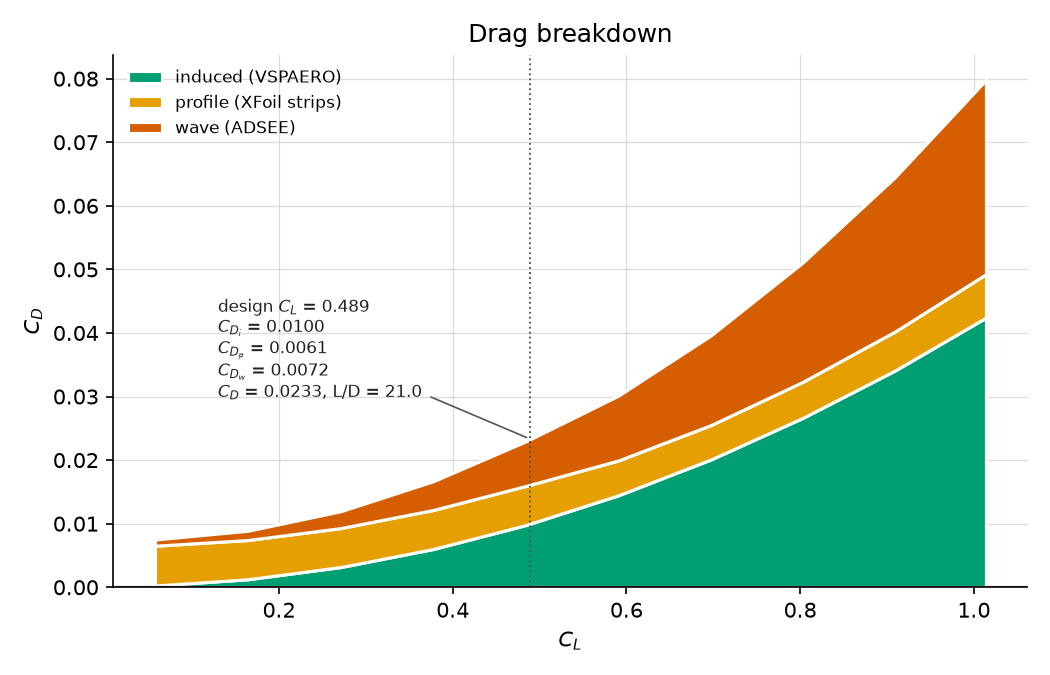
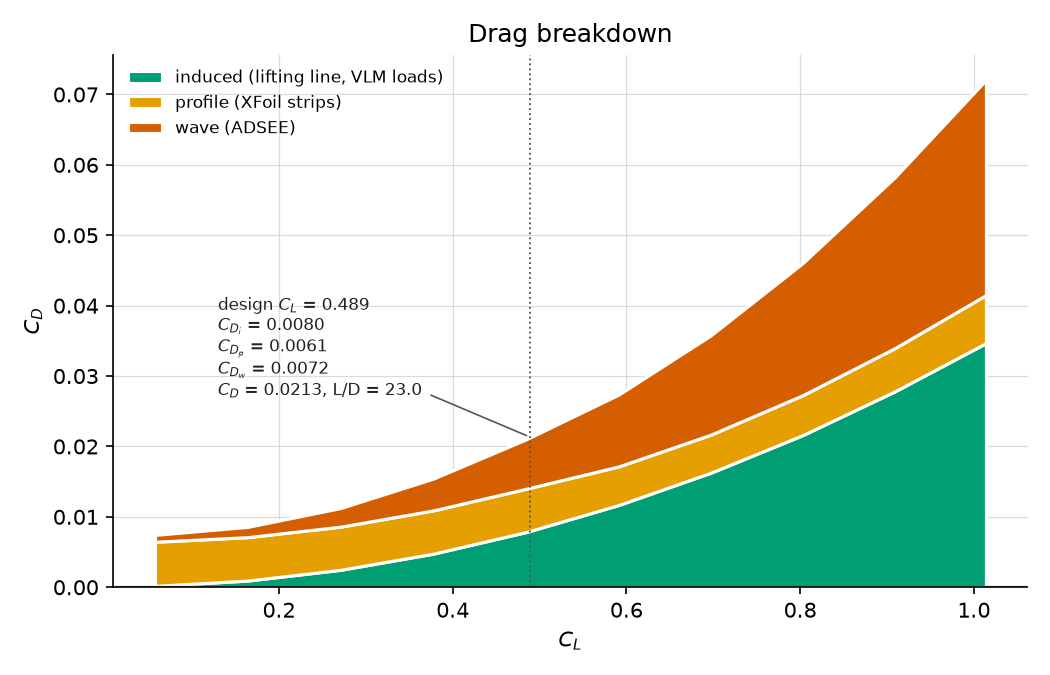
Oswald coefficient correction (far-field induced veocity)

diff --git a/wp2/src/b12wp2/wing/vspaero.py b/wp2/src/b12wp2/wing/vspaero.py
@@ -4,12 +4,18 @@
 """3D wing analysis at cruise: VSPAERO (VLM) + XFoil profile drag + ADSEE
 wave drag, for the wing of b12wp2.wing.geometry with NACA 25112 sections.
 
-    CD = CDi (VSPAERO, Trefftz plane) + CD_profile (XFoil strips) + CD_wave (ADSEE)
+    CD = CDi (lifting line on the VLM span loading) + CD_profile (XFoil strips) + CD_wave (ADSEE)
 
 - VSPAERO: inviscid VLM angle-of-attack sweep at the cruise condition of
-  config.CRUISE. Kept: CL, CMy and the wake (Trefftz-plane) induced drag
-  CDiw. Discarded: VSPAERO's own CDo (a flat-plate skin-friction estimate)
-  and its surface-integrated CDi (goes negative near CL = 0).
+  config.CRUISE. Kept: CL, CMy and the spanwise strip loads. Discarded:
+  VSPAERO's own CDo (a flat-plate skin-friction estimate) and both of its
+  induced drags. The surface-integrated CDi goes negative near CL = 0; the
+  wake (Trefftz-plane) CDiw depends on sweep rather than on the loading --
+  for this planform its span efficiency is 1.17 unswept and 0.80 at the
+  design sweep, while the span loading itself is near-elliptic (0.99-1.00)
+  in both cases. CDiw is kept in the polar as CDiw_vsp, for comparison only.
+- Induced drag: Prandtl's lifting-line Fourier analysis of the VSPAERO
+  span loading cl c(y), see b12wp2.common.drag_polar.induced_drag_from_loading.
 - Profile drag: the spanwise strip loads of every angle of attack are run
   through the XFoil cruise polar, see b12wp2.wing.viscous_correction.
 - Wave drag: XFoil models no shocks, so wave drag is added from the swept
@@ -162,7 +168,7 @@ def read_vsp_polar() -> pd.DataFrame:
         {
             "alpha": col("Alpha"),
             "CL": col("CLtot"),
-            "CDi": col("CDiw"),  # wake / Trefftz-plane induced drag
+            "CDiw_vsp": col("CDiw"),  # wake / Trefftz-plane induced drag, comparison only
             "CMy": col("CMytot"),
             "CDo_vsp": col("CDo"),
             "CDtot_vsp": col("CDtot"),
@@ -196,7 +202,7 @@ def read_strips() -> pd.DataFrame:
 def build_polar(
     vsp_polar: pd.DataFrame, strips: pd.DataFrame, section: pd.DataFrame
 ) -> tuple[pd.DataFrame, pd.DataFrame]:
-    """Add profile and wave drag to the VSPAERO polar.
+    """Add induced (lifting line), profile and wave drag to the VSPAERO polar.
 
     Returns (polar, strips) with the strip-level cl_n, cd_n, cd, status added.
     """
@@ -204,6 +210,9 @@ def build_polar(
     rows, strip_frames = [], []
     for _, p in vsp_polar.iterrows():
         s = strips[np.isclose(strips["alpha"], p["alpha"])]
+        ll = dp.induced_drag_from_loading(
+            s["y"], s["cl"] * s["chord"], wg.B, wing_cfg.AR, solvers.LIFTING_LINE_N_TERMS
+        )
         s_out, cd_prof = vc.strip_profile_drag(
             s, section, sweep_rad=config.SWEEP_RAD, chord_ref=config.CHORD_M,
             s_ref=wing_cfg.S_REF, mode=SWEEP_DRAG_MODE,
@@ -214,17 +223,20 @@ def build_polar(
         )
         m_dd = vc.korn_swept(KAPPA_A, T_C, float(p["CL"]), SWEEP_KORN)
         cd_wave = vc.wave_drag(MACH, m_dd)
-        cd = p["CDi"] + cd_prof + cd_wave
+        cd = ll.cdi + cd_prof + cd_wave
         ratio = s_out["cl_n"] / cl_max_n
         rows.append(
             {
                 **p.to_dict(),
+                "CDi": ll.cdi,
+                "span_eff": ll.span_efficiency,
+                "CL_strips": ll.cl,
                 "CD_profile": cd_prof,
                 f"CD_profile_{SWEEP_DRAG_MODE_SENSITIVITY}": cd_prof_sens,
                 "M_dd": m_dd,
                 "CD_wave": cd_wave,
                 "CD": cd,
-                f"CD_{SWEEP_DRAG_MODE_SENSITIVITY}": p["CDi"] + cd_prof_sens + cd_wave,
+                f"CD_{SWEEP_DRAG_MODE_SENSITIVITY}": ll.cdi + cd_prof_sens + cd_wave,
                 "L_D": p["CL"] / cd,
                 "L_D_no_wave": p["CL"] / (cd - cd_wave),
                 "n_stalled": int((s_out["status"] == vc.STALLED).sum()),
@@ -282,10 +294,15 @@ def summarise(polar: pd.DataFrame) -> dict[str, float]:
         "t_c": T_C,
         "kappa_a": KAPPA_A,
         "sweep_korn_deg": math.degrees(SWEEP_KORN),
-        # ADSEE-II Oswald factor of the clean wing; compared with the
-        # wing-only span efficiency CL^2 / (pi AR CDi) of the VLM
+        # ADSEE-II Oswald factor (whole aircraft) vs the wing-only span
+        # efficiency CL^2 / (pi AR CDi): from the lifting-line fit used in CD,
+        # and from VSPAERO's Trefftz-plane CDiw for comparison
         "sweep_half_chord_deg": math.degrees(SWEEP_HALF_CHORD),
         "oswald_e_adsee": OSWALD_E,
         "K_adsee": dp.induced_drag_factor(OSWALD_E, wing_cfg.AR),
-        "span_efficiency_vsp_design": CL_DESIGN**2 / (math.pi * wing_cfg.AR * _at_cl(polar, "CDi", CL_DESIGN)),
+        "span_efficiency_design": _at_cl(polar, "span_eff", CL_DESIGN),
+        "CDi_trefftz_vsp_design": _at_cl(polar, "CDiw_vsp", CL_DESIGN),
+        "span_efficiency_trefftz_vsp_design": (
+            CL_DESIGN**2 / (math.pi * wing_cfg.AR * _at_cl(polar, "CDiw_vsp", CL_DESIGN))
+        ),
     }

diff --git a/wp2/src/b12wp2/common/drag_polar.py b/wp2/src/b12wp2/common/drag_polar.py
@@ -5,7 +5,8 @@
 Oswald factor, the quadratic coefficient K and the winglet effect on the
 aspect ratio, as given on the ADSEE-II formula sheet (AE2111-II, Formula
 Sheet - Aircraft, "Oswald factor, quadratic coefficient and effect of
-winglet").
+winglet"); and the induced drag of a given spanwise loading from Prandtl's
+lifting-line theory.
 
 Pure functions, no OpenVSP/XFoil dependency -- tested in
 test_drag_polar.py against structural properties of the formulas.
@@ -13,6 +14,10 @@ test_drag_polar.py against structural properties of the formulas.
 from __future__ import annotations
 
 import math
+from typing import NamedTuple
+
+import numpy as np
+import numpy.typing as npt
 
 
 def oswald_factor(aspect_ratio: float, sweep_half_chord: float) -> float:
@@ -49,3 +54,53 @@ def winglet_aspect_ratio(aspect_ratio: float, winglet_height: float, span: float
     if span <= 0.0:
         raise ValueError(f"winglet_aspect_ratio: span must be > 0, got {span}")
     return aspect_ratio * (1.0 + 1.9 * winglet_height / span)
+
+
+class LiftingLine(NamedTuple):
+    """Lifting-line coefficients of a spanwise loading."""
+
+    cl: float  # wing lift coefficient, pi AR A_1
+    cdi: float  # induced drag coefficient, pi AR sum(n A_n^2)
+    span_efficiency: float  # CL^2 / (pi AR CDi) = 1 / (1 + sum_{n>1} n (A_n/A_1)^2)
+
+
+def induced_drag_from_loading(
+    y: npt.ArrayLike,
+    cl_c: npt.ArrayLike,
+    span: float,
+    aspect_ratio: float,
+    n_terms: int = 7,
+) -> LiftingLine:
+    """Induced drag of a symmetric spanwise loading by Prandtl's lifting-line
+    theory (e.g. Anderson, Fundamentals of Aerodynamics, sec. 5.3).
+
+    `y` are the spanwise stations of one half-wing (0 < y <= b/2) and `cl_c`
+    the local section lift times chord there, cl c = 2 Gamma / V. With
+    y = (b/2) cos(theta) the loading is fitted, in a least-squares sense, by
+    the odd terms of the Fourier sine series
+
+        cl c = 4 b sum A_n sin(n theta),   n = 1, 3, ..., 2 n_terms - 1
+
+    which gives CL = pi AR A_1 and CDi = pi AR sum n A_n^2. CDi follows from
+    the coefficients directly, so it stays defined at CL = 0 (a twisted wing
+    still has induced drag there); the span efficiency is NaN when CDi = 0.
+    """
+    y_arr = np.asarray(y, dtype=np.float64)
+    load = np.asarray(cl_c, dtype=np.float64)
+    if y_arr.shape != load.shape or y_arr.ndim != 1:
+        raise ValueError("induced_drag_from_loading: y and cl_c must be 1D arrays of the same length")
+    if y_arr.size < n_terms:
+        raise ValueError(f"induced_drag_from_loading: {y_arr.size} stations cannot fit {n_terms} terms")
+    half = span / 2.0
+    if np.any(y_arr <= 0.0) or np.any(y_arr > half):
+        raise ValueError("induced_drag_from_loading: stations must lie in (0, b/2]")
+
+    theta = np.arccos(y_arr / half)
+    n = np.arange(1, 2 * n_terms, 2)
+    basis = 4.0 * span * np.sin(np.outer(theta, n))
+    a_n, *_ = np.linalg.lstsq(basis, load, rcond=None)
+
+    cl = math.pi * aspect_ratio * a_n[0]
+    cdi = math.pi * aspect_ratio * float(np.sum(n * a_n**2))
+    span_eff = cl**2 / (math.pi * aspect_ratio * cdi) if cdi > 0.0 else float("nan")
+    return LiftingLine(float(cl), cdi, span_eff)

diff --git a/wp2/tests/test_drag_polar.py b/wp2/tests/test_drag_polar.py
@@ -11,6 +11,7 @@ from __future__ import annotations
 
 import math
 
+import numpy as np
 import pytest
 
 from b12wp2.common import drag_polar
@@ -60,3 +61,67 @@ def test_winglet_without_height_leaves_aspect_ratio_unchanged() -> None:
 def test_winglet_increases_aspect_ratio() -> None:
     # h/b = 0.05 -> AR_e = AR * 1.095
     assert drag_polar.winglet_aspect_ratio(9.5, 1.26, 25.2) == pytest.approx(9.5 * 1.095)
+
+
+# --- lifting-line induced drag of a span loading ---
+
+B, AR = 25.17, 9.5  # B12 wing: b = sqrt(S AR), S = 66.7 m^2
+
+
+def _stations(n: int = 24) -> np.ndarray:
+    # strip centres of one half-wing, clustered towards the tip like the VLM mesh
+    edges = (B / 2) * np.sin(np.linspace(0.0, np.pi / 2, n + 1))
+    return 0.5 * (edges[1:] + edges[:-1])
+
+
+def _loading(y: np.ndarray, a1: float, a3: float = 0.0) -> np.ndarray:
+    theta = np.arccos(y / (B / 2))
+    return 4.0 * B * (a1 * np.sin(theta) + a3 * np.sin(3.0 * theta))
+
+
+def test_lifting_line_elliptic_loading() -> None:
+    cl = 0.5
+    y = _stations()
+    ll = drag_polar.induced_drag_from_loading(y, _loading(y, cl / (math.pi * AR)), B, AR)
+    assert ll.cl == pytest.approx(cl)
+    assert ll.cdi == pytest.approx(cl**2 / (math.pi * AR))
+    assert ll.span_efficiency == pytest.approx(1.0)
+
+
+def test_lifting_line_third_harmonic() -> None:
+    # delta = 3 (A3/A1)^2 -> span efficiency 1 / (1 + delta)
+    y = _stations()
+    ll = drag_polar.induced_drag_from_loading(y, _loading(y, 0.02, 0.002), B, AR)
+    assert ll.span_efficiency == pytest.approx(1.0 / (1.0 + 3.0 * 0.1**2))
+
+
+def test_lifting_line_lift_matches_integrated_loading() -> None:
+    # non-elliptic loading that vanishes at the tip: CL = (2/S) * integral of cl c dy
+    y = np.linspace(1e-3, B / 2, 2001)
+    cl_c = 2.0 * (1.0 - (y / (B / 2)) ** 2) ** 0.75
+    s_ref = B**2 / AR
+    cl_integrated = 2.0 / s_ref * float(np.sum(0.5 * (cl_c[1:] + cl_c[:-1]) * np.diff(y)))
+    ll = drag_polar.induced_drag_from_loading(y, cl_c, B, AR)
+    assert ll.cl == pytest.approx(cl_integrated, rel=1e-3)
+
+
+def test_lifting_line_induced_drag_at_zero_lift() -> None:
+    # a twisted wing at CL = 0 (pure third harmonic) still has induced drag
+    y = _stations()
+    ll = drag_polar.induced_drag_from_loading(y, _loading(y, 0.0, 0.001), B, AR)
+    assert ll.cl == pytest.approx(0.0, abs=1e-12)
+    assert ll.cdi == pytest.approx(math.pi * AR * 3.0 * 0.001**2)
+
+
+def test_lifting_line_insensitive_to_number_of_terms() -> None:
+    # non-elliptic loading vanishing at the tip (span efficiency ~0.96)
+    y = _stations()
+    cl_c = 2.0 * (1.0 - (y / (B / 2)) ** 2) ** 0.75
+    effs = [drag_polar.induced_drag_from_loading(y, cl_c, B, AR, n).span_efficiency for n in (5, 7, 9)]
+    assert max(effs) - min(effs) < 5e-3
+
+
+def test_lifting_line_rejects_stations_outside_half_span() -> None:
+    y = _stations()
+    with pytest.raises(ValueError):
+        drag_polar.induced_drag_from_loading(np.append(y, B), np.ones(y.size + 1), B, AR)

diff --git a/wp2/src/b12wp2/plots/vspaero.py b/wp2/src/b12wp2/plots/vspaero.py
@@ -105,7 +105,7 @@ def plot_drag_breakdown(polar: pd.DataFrame, summary: dict[str, float], out_dir:
     ax.stackplot(
         p["CL"], p["CDi"], p["CD_profile"], p["CD_wave"],
         colors=[C_INDUCED, C_PROFILE, C_WAVE], edgecolor="white", linewidth=1.5,
-        labels=["induced (VSPAERO)", "profile (XFoil strips)", "wave (ADSEE)"],
+        labels=["induced (lifting line, VLM loads)", "profile (XFoil strips)", "wave (ADSEE)"],
     )
     cl_d = summary["CL_design"]
     _design_line(ax, cl_d, horizontal=False)

diff --git a/wp2/src/b12wp2/config/solvers.py b/wp2/src/b12wp2/config/solvers.py
@@ -47,6 +47,11 @@ VSPAERO_ALPHA_NPTS = 15
 VSPAERO_WAKE_ITER = 5
 VSPAERO_N_CPU = 4
 
+# Odd Fourier terms (n = 1, 3, ..., 13) of the lifting-line fit that gives the
+# induced drag from the VSPAERO span loading, see
+# b12wp2.common.drag_polar.induced_drag_from_loading
+LIFTING_LINE_N_TERMS = 7
+
 KORN_SWEEP_LOC = 0.5  # chord fraction of the sweep line used in the Korn equation
 SWEEP_DRAG_MODE = "friction"  # baseline, see b12wp2.wing.viscous_correction.sweep_drag_factor
 SWEEP_DRAG_MODE_SENSITIVITY = "cos3"
